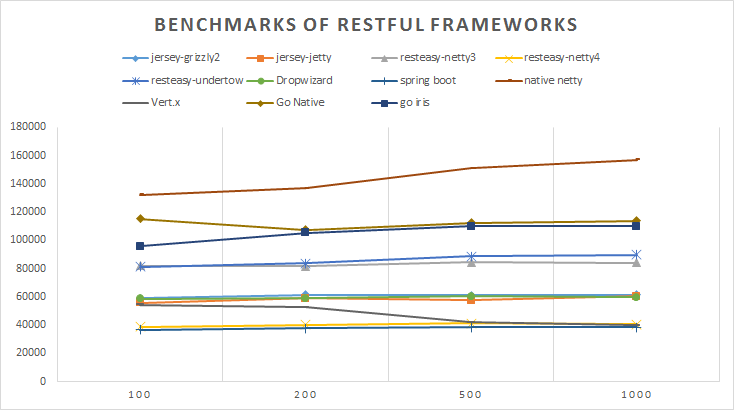
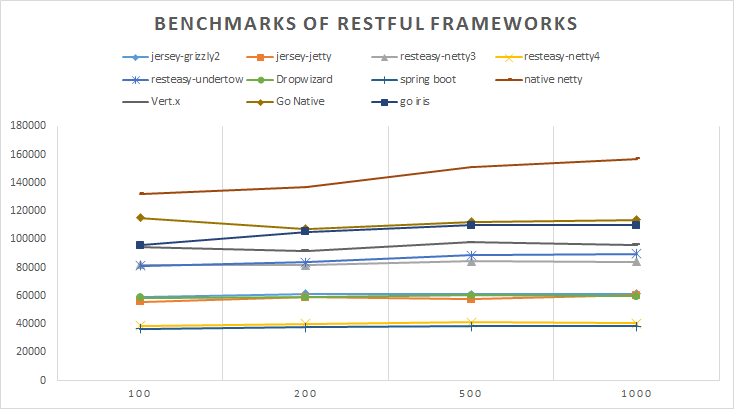
Site updated: 2016-03-29 17:50:37

diff --git a/2015/11/17/Jax-RS-Performance-Comparison/index.html b/2015/11/17/Jax-RS-Performance-Comparison/index.html
@@ -180,7 +180,7 @@
 <li>RESTEasy+netty4的性能远远低于RESTEasy+netty3，这出乎我的意料。或许因为Netty线程池的改变。</li>
 <li>纯netty的性能远远高于其它框架，一方面是由于没有http router的逻辑，另一方面也显示了Netty框架的优秀。如果不是实现很复杂的路由和很多的Service,不妨使用纯Netty实现高性能。</li>
 <li>Spring Boot太厚重了，使用Spring MVC的语法，性能只有Jersey的一半。</li>
-<li>Vert.x底层使用Netty,可以使用Java 8 Lambda语法，也提供了其它语言的支持，但是性能看起来不是太好，而且随着并发量增大吞吐率也随之下降。</li>
+<li>Vert.x底层使用Netty,可以使用Java 8 Lambda语法，也提供了其它语言的支持，<del>但是性能看起来不是太好，而且随着并发量增大吞吐率也随之下降</del>。先前的vert.x测试有问题,只用到了单核，谢谢@Stream网友的提醒，我在代码中增加了vertx-verticles模块，支持多核(java -jar vertx-verticles-1.0-SNAPSHOT.jar -instances 20)。 Vert.x性能也不错。@heng</li>
 </ul>
 <p>当然测试也有一点遗憾，就是没有记录测试时的CPU占用率和Memory占用率，以我个人的经验，这方面Netty会占一些优势。</p>
 
